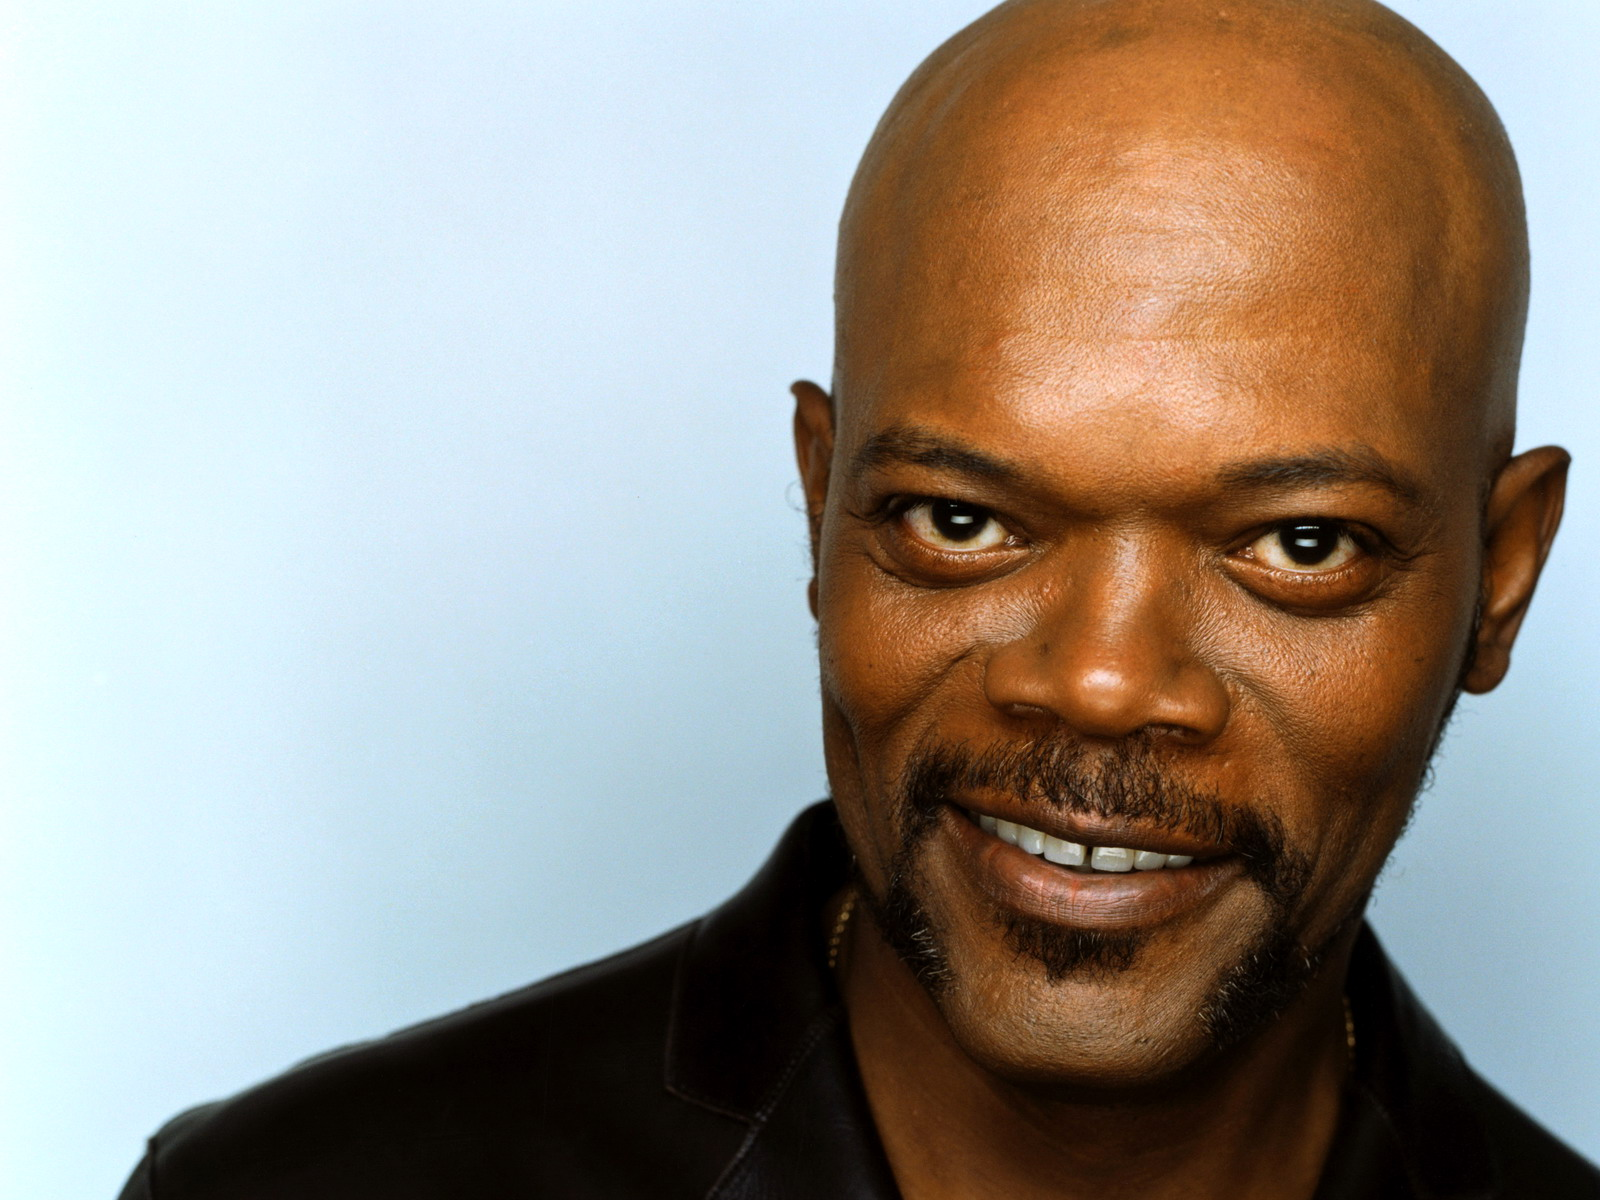
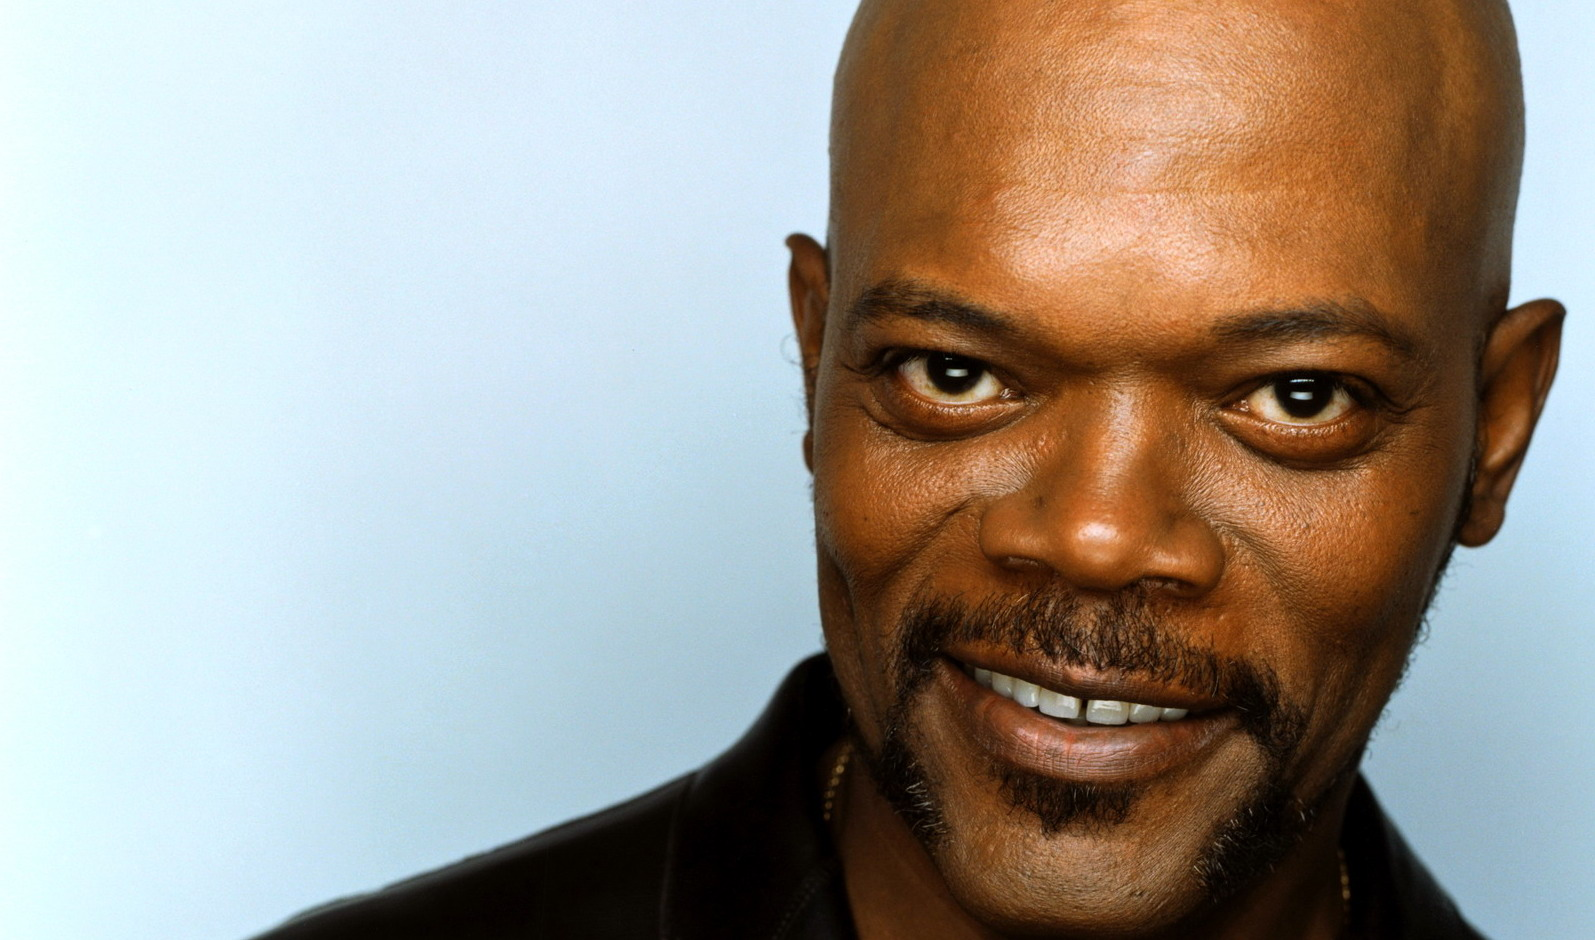
WIP - implemented a victory screen

Changed region(s): [[0.0614, 0.0, 1.0, 1.0], [0.4608, 0.9255, 0.4915, 0.9564], [0.4301, 0.9872, 0.4608, 1.0]]

diff --git a/wordLists.js b/wordLists.js
@@ -1,20 +1,30 @@
 var wordList = [
 
-"The path of the righteous man is beset on all sides by the iniquities of the selfish and the tyranny of evil men. Blessed is he who, in the name of charity and good will, shepherds the weak through the valley of darkness, for he is truly his brother's keeper and the finder of lost children. And I will strike down upon thee with great vengeance and furious anger those who would attempt to poison and destroy My brothers. And you will know My name is the Lord when I lay My vengeance upon thee.",
+"duck",
 
-"Do you see any Teletubbies in here? Do you see a slender plastic tag clipped to my shirt with my name printed on it? Do you see a little Asian child with a blank expression on his face sitting outside on a mechanical helicopter that shakes when you put quarters in it? No? Well, that's what you see at a toy store. And you must think you're in a toy store, because you're here shopping for an infant named Jeb.",
+"fox",
 
-"Normally, both your asses would be dead as fucking fried chicken, but you happen to pull this shit while I'm in a transitional period so I don't wanna kill you, I wanna help you. But I can't give you this case, it don't belong to me. Besides, I've already been through too much shit this morning over this case to hand it over to your dumb ass.",
-
-"Look, just because I don't be givin' no man a foot massage don't make it right for Marsellus to throw Antwone into a glass motherfuckin' house, fuckin' up the way the nigger talks. Motherfucker do that shit to me, he better paralyze my ass, 'cause I'll kill the motherfucker, know what I'm sayin'?",
-
-"Good motherfucking choice, motherfucker! Samuel Jackson! Made painstakingly by me, Samuel L. Jackson! It'll get ya drunk! You'll be fucking fat girls in no time! You might even fight a nigga or two! Mmmm-mmm, bitch!",
-
-"No, I can't stop yelling, 'cause that's how I talk! Haven't you seen my movies? 'Juice' That was a good one! 'Deep Blue Sea' They ate me! A motherfucking shark ate me! Drink up, bitch!",
-
-"I have been given the gift of an incredibly intimidating voice, and I intend to use it to strike fear into the scum that plague our good streets. Listen to this: 'Hey! You! Motherfucker! Stop doing all that crime!' You see? Who wouldn't stop after that? How about this one: 'Yo! Knock that motherfucking crime-doing off!' And of course there's: 'Excuse me, young hoodlum? Look at me! I'm Samuel L. Jackson, bitch. You really think you're going to get away with this?'"
+"goose"
 
 ]
+
+// var wordList = [
+
+// "The path of the righteous man is beset on all sides by the iniquities of the selfish and the tyranny of evil men. Blessed is he who, in the name of charity and good will, shepherds the weak through the valley of darkness, for he is truly his brother's keeper and the finder of lost children. And I will strike down upon thee with great vengeance and furious anger those who would attempt to poison and destroy My brothers. And you will know My name is the Lord when I lay My vengeance upon thee.",
+
+// "Do you see any Teletubbies in here? Do you see a slender plastic tag clipped to my shirt with my name printed on it? Do you see a little Asian child with a blank expression on his face sitting outside on a mechanical helicopter that shakes when you put quarters in it? No? Well, that's what you see at a toy store. And you must think you're in a toy store, because you're here shopping for an infant named Jeb.",
+
+// "Normally, both your asses would be dead as fucking fried chicken, but you happen to pull this shit while I'm in a transitional period so I don't wanna kill you, I wanna help you. But I can't give you this case, it don't belong to me. Besides, I've already been through too much shit this morning over this case to hand it over to your dumb ass.",
+
+// "Look, just because I don't be givin' no man a foot massage don't make it right for Marsellus to throw Antwone into a glass motherfuckin' house, fuckin' up the way the nigger talks. Motherfucker do that shit to me, he better paralyze my ass, 'cause I'll kill the motherfucker, know what I'm sayin'?",
+
+// "Good motherfucking choice, motherfucker! Samuel Jackson! Made painstakingly by me, Samuel L. Jackson! It'll get ya drunk! You'll be fucking fat girls in no time! You might even fight a nigga or two! Mmmm-mmm, bitch!",
+
+// "No, I can't stop yelling, 'cause that's how I talk! Haven't you seen my movies? 'Juice' That was a good one! 'Deep Blue Sea' They ate me! A motherfucking shark ate me! Drink up, bitch!",
+
+// "I have been given the gift of an incredibly intimidating voice, and I intend to use it to strike fear into the scum that plague our good streets. Listen to this: 'Hey! You! Motherfucker! Stop doing all that crime!' You see? Who wouldn't stop after that? How about this one: 'Yo! Knock that motherfucking crime-doing off!' And of course there's: 'Excuse me, young hoodlum? Look at me! I'm Samuel L. Jackson, bitch. You really think you're going to get away with this?'"
+
+// ]
 
 var errorTriggeredAudio = [
 

diff --git a/typeracer.js b/typeracer.js
@@ -1,7 +1,6 @@
-// TODO: Add victory screen
 // TODO: Add defeat screen
-// TODO: Make victory/defeat screens slide in from offscreen (always rendered, high z-index)
 // TODO: Add button to play again at end
+// TODO: Make sure SLJ says nice things to you even if you're at zero ragepoints
 // TODO: Add soundboard to victory screen
 // TODO: Add difficulty levels (increase speed at which rage increases, increase length of correct streak required to reduce rage. Add more flames, too?)
 // TODO: Add firebase and score (calculated from allLetters.length, wpm, and accuracy) to add leaderboard
@@ -77,13 +76,10 @@ $(document).ready(function(){
     checkForVictory()
     correctLetter = getNextLetter()
     timeOfLastSuccess = new Date()
-    // do something to reduce rage counter here?
   }
 
   function checkForVictory() {
     if (letterCounter + 1 > allLetters.length) {
-      outputWPM(getTotalTime())
-      outputAccuracy()
       gameOver()
       activateVictory()
     }
@@ -103,7 +99,14 @@ $(document).ready(function(){
   }
 
   function activateVictory() {
+    $('#victory_img').animate({"right": "0%"}, 2000)
+    setTimeout(displayVictoryOutputs, 2000)
+  }
 
+  function displayVictoryOutputs() {
+    outputWPM(getTotalTime())
+    outputAccuracy() 
+    outputVictoryStatement()   
   }
 
   function activateDefeat() {
@@ -218,6 +221,11 @@ $(document).ready(function(){
     var accuracy = correctAttempts / (correctAttempts + failedAttempts)
     $("#output_accuracy").html("Your Accuracy: " + (Math.round(accuracy * 100 * 100)/100) + '%')
     $("#output_accuracy").animate({opacity:1}, 500)
+  }
+
+  function outputVictoryStatement() {
+    $("#output_victory").html("Congratulations -- you win!")
+    $("#output_victory").animate({opacity:1}, 500)
   }
   
   function themeSong() {

diff --git a/typeracer.html b/typeracer.html
@@ -12,11 +12,13 @@
 </head>
 
 <body class="stop_scrolling">
+  <img id="victory_img" src="sj_pics/sj_win.jpg">
   <div class="flames" id="flame_one"></div>
   <div class="flames" id="flame_two"></div>
   <div id="sam_jack_rage"></div>  
-  <div id="output_time"></div>
-  <div id="output_accuracy"></div>
+  <div class="output" id="output_time"></div>
+  <div class="output" id="output_accuracy"></div>
+  <div class="output" id="output_victory"></div>
   <div id="text_to_type"></div>
   <div id="lightning"></div>
   <div id="countdown"></div>

diff --git a/text.css b/text.css
@@ -6,6 +6,14 @@ body {
   font-size: 200%;
 }
 
+#victory_img {
+  position: absolute;
+  width: 100%;
+  height: auto;
+  right: 100%;
+  z-index: 3;
+}
+
 #lightning {
   position: absolute;
   z-index: -2;
@@ -32,12 +40,24 @@ body {
   color: yellow;
 }
 
-#output_time {
+.output {
   opacity: 0;
+  z-index: 4;
+  position: absolute;
+  left: 5%;  
+  color: black;
+}
+
+#output_victory {
+  top: 12%;
+}
+
+#output_time {
+  top: 20%;
 }
 
 #output_accuracy {
-  opacity: 0;
+  top: 28%;
 }
 
 #sam_face {
